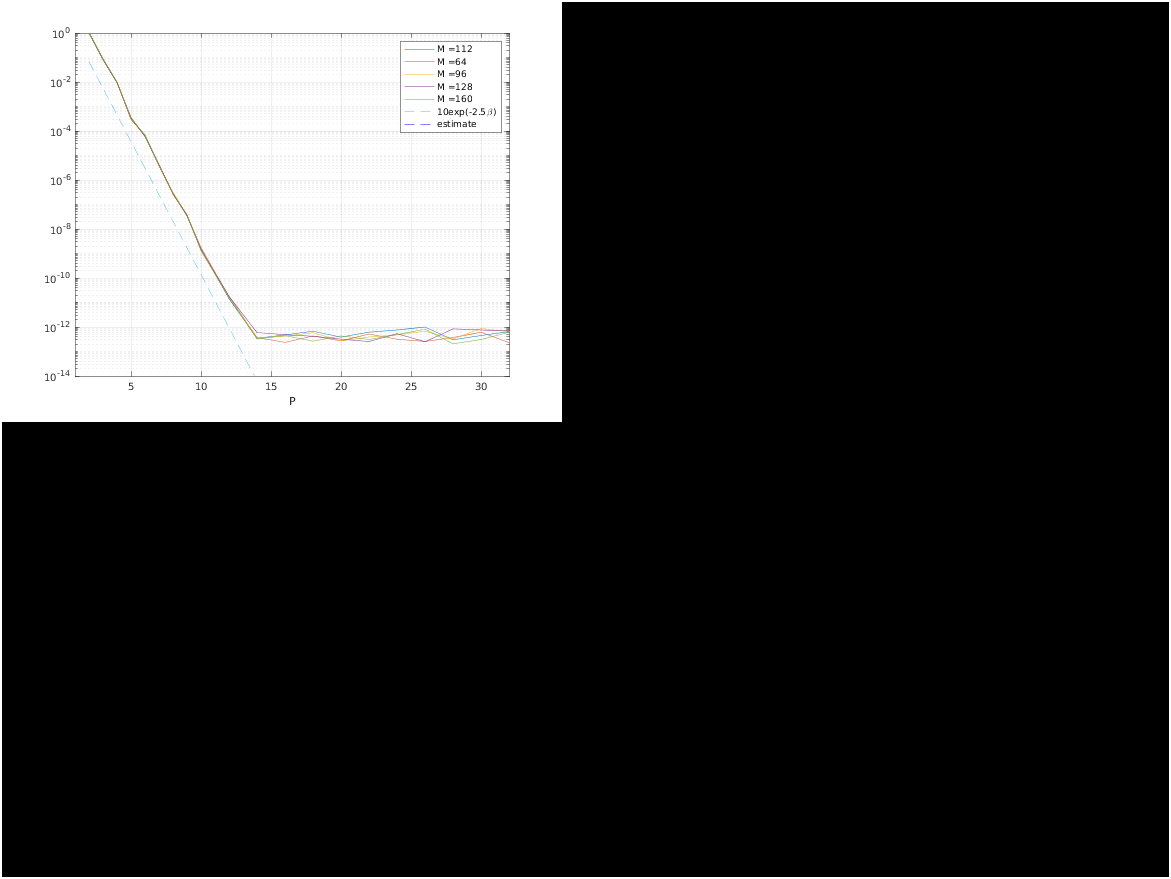
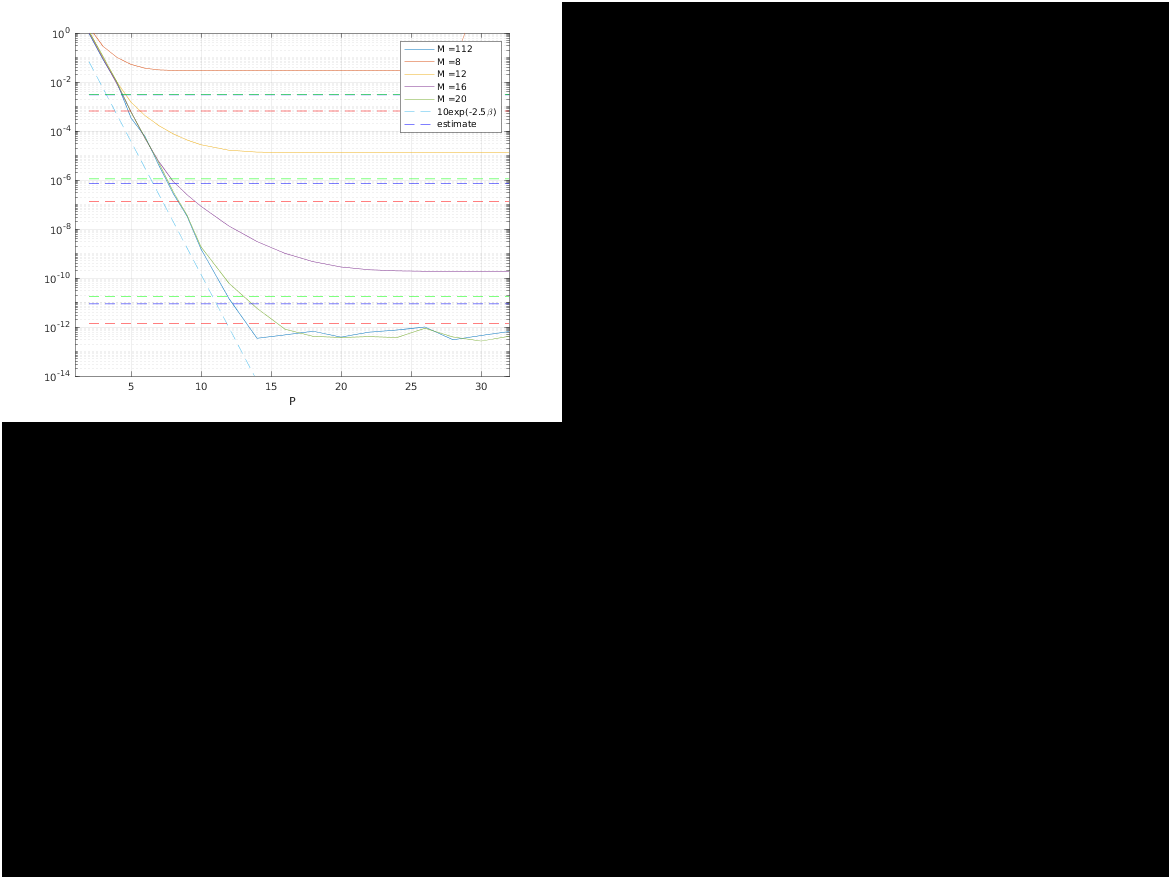
imgs

diff --git a/SE_Stokes_run/SE3P_Stokes/P_error.m b/SE_Stokes_run/SE3P_Stokes/P_error.m
@@ -45,7 +45,7 @@ end
 %ref = SE3P_Stokes(1:N,x,f,opt);
 rms_ref = rmse(ref);
 %% Compare solutions with changing P
-MM = 8.*(8:4:20);
+MM = (8:4:20);
 str = {};
 est_old = @(M,xi,L,f) sqrt(f)*(xi^3*L^2/(pi^4*(M/2)^(3/2)))*exp(-(pi*(M/2)/(xi*L))^2);
 %est = @(M,xi,L,f) sqrt(f)*(4/(3^(1/4)*L*pi))*exp(-(pi*M/(xi*L*2))^2);
